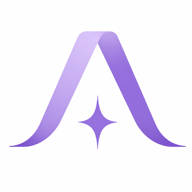
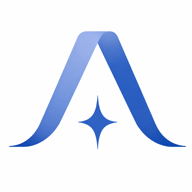
feat: 공통 디자인 4단계 — 로고·앱 아이콘 코발트, Packing·Maps 흰 바탕·직각·코발트 + WORKLOG

Changed region(s): [[0.0625, 0.1562, 0.9688, 0.7812], [0.4062, 0.5, 0.625, 0.7812]]

diff --git a/packing.html b/packing.html
@@ -5,6 +5,7 @@
   <meta name="viewport" content="width=device-width, initial-scale=1.0"/>
   <title>The Atelier — Packing Checklist</title>
   <script src="https://cdn.tailwindcss.com?plugins=forms,container-queries"></script>
+  <link rel="stylesheet" href="https://cdn.jsdelivr.net/gh/orioncactus/pretendard@v1.3.9/dist/web/static/pretendard.min.css">
   <link href="https://fonts.googleapis.com/css2?family=Plus+Jakarta+Sans:wght@400;500;600;700;800&family=Inter:wght@300;400;500;600;700&family=Material+Symbols+Outlined:wght,FILL@100..700,0..1&display=swap" rel="stylesheet"/>
   <script>
     tailwind.config = {
@@ -16,49 +17,49 @@
             "on-tertiary-fixed-variant": "#673d00",
             "error": "#ba1a1a",
             "on-background": "#191c1d",
-            "outline": "#7b7486",
-            "surface-bright": "#f8f9fa",
+            "outline": "#7A7A85",
+            "surface-bright": "#ffffff",
             "surface-container-high": "#e7e8e9",
             "on-error": "#ffffff",
             "tertiary": "#855000",
-            "on-primary-fixed-variant": "#5516be",
+            "on-primary-fixed-variant": "#1A3FB5",
             "surface-container-low": "#f3f4f5",
-            "primary-fixed": "#e9ddff",
-            "primary-fixed-dim": "#d0bcff",
-            "on-secondary-container": "#544183",
+            "primary-fixed": "#DDE5FB",
+            "primary-fixed-dim": "#BCCBF7",
+            "on-secondary-container": "#17348F",
             "surface-variant": "#e1e3e4",
             "on-tertiary-fixed": "#2c1700",
-            "secondary-fixed-dim": "#d0bcff",
+            "secondary-fixed-dim": "#BCCBF7",
             "surface-container-highest": "#e1e3e4",
-            "on-secondary-fixed": "#220b4e",
-            "on-primary-fixed": "#23005c",
+            "on-secondary-fixed": "#0D1C4A",
+            "on-primary-fixed": "#0D1C4A",
             "surface-container": "#edeeef",
-            "on-surface-variant": "#494454",
-            "primary-container": "#8455ef",
-            "secondary-container": "#c9b3fd",
+            "on-surface-variant": "#4A4A55",
+            "primary-container": "#3563DF",
+            "secondary-container": "#BCCBF7",
             "on-primary-container": "#fffbff",
             "tertiary-fixed-dim": "#ffb869",
-            "inverse-primary": "#d0bcff",
+            "inverse-primary": "#BCCBF7",
             "error-container": "#ffdad6",
-            "outline-variant": "#cbc3d7",
+            "outline-variant": "#DCDCE3",
             "on-secondary": "#ffffff",
             "on-primary": "#ffffff",
             "on-tertiary-container": "#fffbff",
-            "surface-tint": "#6d3bd7",
-            "secondary": "#665396",
-            "primary": "#6b38d4",
+            "surface-tint": "#1F4BD8",
+            "secondary": "#3D4F87",
+            "primary": "#1F4BD8",
             "inverse-on-surface": "#f0f1f2",
             "surface-container-lowest": "#ffffff",
             "on-tertiary": "#ffffff",
             "on-error-container": "#93000a",
-            "background": "#f8f9fa",
-            "surface": "#f8f9fa",
+            "background": "#ffffff",
+            "surface": "#ffffff",
             "surface-dim": "#d9dadb",
             "inverse-surface": "#2e3132",
             "tertiary-fixed": "#ffdcbb",
             "on-surface": "#191c1d",
-            "secondary-fixed": "#e9ddff",
-            "on-secondary-fixed-variant": "#4e3b7c"
+            "secondary-fixed": "#DDE5FB",
+            "on-secondary-fixed-variant": "#142C72"
           },
           borderRadius: {
             "DEFAULT": "0.25rem",
@@ -69,7 +70,7 @@
             "full": "9999px"
           },
           fontFamily: {
-            "headline": ["Plus Jakarta Sans", "sans-serif"],
+            "headline": ["Pretendard", "sans-serif"],
             "body": ["Inter", "sans-serif"],
             "label": ["Inter", "sans-serif"]
           }
@@ -79,10 +80,10 @@
   </script>
   <style>
     * { box-sizing: border-box; }
-    body { font-family: 'Inter', sans-serif; background-color: #f8f9fa; color: #191c1d; }
-    h1, h2, h3, h4, .headline { font-family: 'Plus Jakarta Sans', sans-serif; }
+    body { font-family: 'Pretendard', -apple-system, sans-serif; background-color: #ffffff; color: #191c1d; }
+    h1, h2, h3, h4, .headline { font-family: 'Pretendard', -apple-system, sans-serif; }
     .material-symbols-outlined { font-variation-settings: 'FILL' 0, 'wght' 400, 'GRAD' 0, 'opsz' 24; }
-    .gradient-primary { background: linear-gradient(135deg, #6b38d4 0%, #8455ef 100%); }
+    .gradient-primary { background: linear-gradient(135deg, #1F4BD8 0%, #3563DF 100%); }
     .glass-nav { backdrop-filter: blur(20px); -webkit-backdrop-filter: blur(20px); }
     .no-scrollbar::-webkit-scrollbar { display: none; }
     .no-scrollbar { -ms-overflow-style: none; scrollbar-width: none; }
@@ -95,12 +96,16 @@
     @keyframes modalIn { from { opacity: 0; transform: translateY(16px) scale(0.97); } to { opacity: 1; transform: translateY(0) scale(1); } }
 
     /* Checkbox custom */
-    input[type="checkbox"] { accent-color: #6b38d4; }
+    input[type="checkbox"] { accent-color: #1F4BD8; }
 
     /* Fade in */
     @keyframes fadeIn { from { opacity: 0; transform: translateY(8px); } to { opacity: 1; transform: translateY(0); } }
     .fade-in { animation: fadeIn 0.3s ease; }
-  </style>
+      /* 아뜰리에 공통: 모든 칸 직각, 카드 그림자 없음 (2026-10-18) */
+    *,*::before,*::after{border-radius:0 !important}
+    .animate-spin{border-radius:9999px !important}
+    .shadow-sm,.shadow,.shadow-md,.shadow-lg,.shadow-xl,[class*="shadow-["]{box-shadow:none !important}
+</style>
 
   <!-- Firebase -->
   <script src="https://www.gstatic.com/firebasejs/10.12.0/firebase-app-compat.js"></script>

diff --git a/index.html b/index.html
@@ -69,9 +69,9 @@
   <meta name="mobile-web-app-capable" content="yes"><!-- 표준 이름. iOS 구버전 때문에 위 apple- 도 남겨둠 -->
   <meta name="apple-mobile-web-app-status-bar-style" content="black-translucent">
   <meta name="apple-mobile-web-app-title" content="Atelier">
-  <link rel="apple-touch-icon" sizes="180x180" href="/the-atelier/icons/icon-180.png?v=2">
-  <link rel="icon" type="image/png" sizes="32x32" href="/the-atelier/icons/favicon-32.png?v=2">
-  <link rel="icon" type="image/png" sizes="16x16" href="/the-atelier/icons/favicon-16.png?v=2">
+  <link rel="apple-touch-icon" sizes="180x180" href="/the-atelier/icons/icon-180.png?v=3">
+  <link rel="icon" type="image/png" sizes="32x32" href="/the-atelier/icons/favicon-32.png?v=3">
+  <link rel="icon" type="image/png" sizes="16x16" href="/the-atelier/icons/favicon-16.png?v=3">
   <!-- 우리 앱 JS 미리 다운로드 시작 (HTML 파싱과 병렬) — 모바일 로딩 속도 핵심 -->
   <link rel="preload" href="js/app-1-pages.js?v=391" as="script">
   <link rel="preload" href="js/app-2-init.js?v=183" as="script">
@@ -11398,7 +11398,7 @@
 <!-- LOGIN SCREEN -->
 <div id="login-screen" class="fixed inset-0 z-[9999] flex items-center justify-center" style="background:linear-gradient(135deg,var(--lavender-deep) 0%,var(--indigo-600) 50%,#312e81 100%);">
   <div class="bg-white rounded-3xl shadow-2xl p-10 w-full max-w-sm mx-4 text-center">
-    <img src="/the-atelier/icons/icon-192.png?v=2" alt="The Atelier" class="w-14 h-14 mx-auto mb-4 rounded-2xl" style="object-fit:contain">
+    <img src="/the-atelier/icons/icon-192.png?v=3" alt="The Atelier" class="w-14 h-14 mx-auto mb-4 rounded-2xl" style="object-fit:contain">
     <h1 class="text-2xl font-black text-slate-900 tracking-tight font-headline mb-1">The Atelier</h1>
     <p class="text-sm text-slate-400 mb-8">Nuri만의 개인 공간</p>
     <button onclick="googleSignIn()" class="w-full py-3 px-6 rounded-xl bg-white border-2 border-slate-200 text-slate-700 font-bold text-sm flex items-center justify-center gap-3 hover:border-violet-300 hover:shadow-md active:scale-[0.98] transition-all">
@@ -11447,7 +11447,7 @@
     <span class="material-symbols-outlined" style="font-size: var(--font-size-h2-lg)">close</span>
   </button>
   <div class="px-6 mb-6 flex items-center gap-3">
-    <img src="/the-atelier/icons/icon-192.png?v=2" alt="The Atelier" class="w-9 h-9 rounded-xl shrink-0" style="object-fit:contain">
+    <img src="/the-atelier/icons/icon-192.png?v=3" alt="The Atelier" class="w-9 h-9 rounded-xl shrink-0" style="object-fit:contain">
     <div>
       <h1 class="text-base font-black text-slate-800 tracking-tight">The Atelier</h1>
       <p class="font-manrope uppercase tracking-widest text-[9px] font-semibold text-slate-400 mt-0.5">v1.0.4</p>

diff --git a/maps.html b/maps.html
@@ -7,13 +7,9 @@
 <title>구글맵 저장 목록 — 2026 독일 & 이탈리아</title>
 <style>
   :root{
-    --bg:#f6f7f9; --card:#fff; --ink:#0f172a; --sub:#64748b; --faint:#94a3b8;
-    --line:#e6e9ee; --accent:#4f46e5; --accent-soft:#eef2ff; --star:#b45309; --star-soft:#fffbeb;
-    --radius:14px;
-  }
-  @media (prefers-color-scheme: dark){
-    :root{ --bg:#0b1020; --card:#131a2c; --ink:#e8ecf5; --sub:#94a3b8; --faint:#64748b;
-           --line:#233049; --accent:#8b9cff; --accent-soft:#1c2542; --star:#fbbf24; --star-soft:#2a2313; }
+    --bg:#ffffff; --card:#fff; --ink:#0f172a; --sub:#64748b; --faint:#94a3b8;
+    --line:#e6e9ee; --accent:#1F4BD8; --accent-soft:#EEF2FD; --star:#b45309; --star-soft:#fffbeb;
+    --radius:0;
   }
   *{box-sizing:border-box}
   html,body{margin:0;padding:0}
@@ -33,7 +29,7 @@
   .chips{display:flex;gap:6px;flex-wrap:wrap}
   .chip{
     appearance:none;border:1px solid var(--line);background:var(--card);color:var(--sub);
-    font:inherit;font-size:12.5px;font-weight:700;padding:7px 12px;border-radius:999px;cursor:pointer;
+    font:inherit;font-size:12.5px;font-weight:700;padding:7px 12px;border-radius:0;cursor:pointer;
   }
   .chip[aria-pressed="true"]{background:var(--accent);border-color:var(--accent);color:#fff}
   .count{font-size:12px;color:var(--faint);margin-top:8px}

diff --git a/service-worker.js b/service-worker.js
@@ -1,4 +1,4 @@
-const CACHE_NAME = 'atelier-v605';
+const CACHE_NAME = 'atelier-v606';
 const urlsToCache = [
   '/the-atelier/',
   '/the-atelier/index.html',

diff --git a/WORKLOG.md b/WORKLOG.md
@@ -1,3 +1,12 @@
+## 2026-10-18 · 아이맥 · 공통 디자인 4단계 — 로고 코발트 · Packing · Maps
+
+- 로고(icons/icon-512·192·180, favicon-32·16): 같은 그림에서 보라 색상만 코발트로 옮김(Pillow, 색상 −41°·채도↑, 모양·밝기 유지). icon.svg 그라데이션도 코발트, index.html 아이콘 ?v=2 → 3, theme-color·manifest theme_color #7c3aed → #1F4BD8
+- packing.html: Tailwind 보라 토큰(primary #6b38d4 등) → 코발트, 바탕 #f8f9fa → 흰색, Inter·Plus Jakarta → Pretendard, 모든 칸 직각, 그림자 없음. 날씨 아이콘 보라(천둥번개)는 의미 색이라 유지
+- maps.html: 바탕 #f6f7f9 → 흰색, 포인트 #4f46e5 → 코발트, 둥글기 0, 다크 모드 자동 전환 제거(누리: 언제나 흰 바탕)
+- service-worker CACHE_NAME v605
+
+---
+
 ## 2026-10-18 · 맥북 · English › IELTS 탭 새로
 
 - 누리: IELTS 정보를 English 탭 안 IELTS 탭에 모아서 계속 쌓아가자 → ANNIE | STUDY | **IELTS** 세 번째 탭
